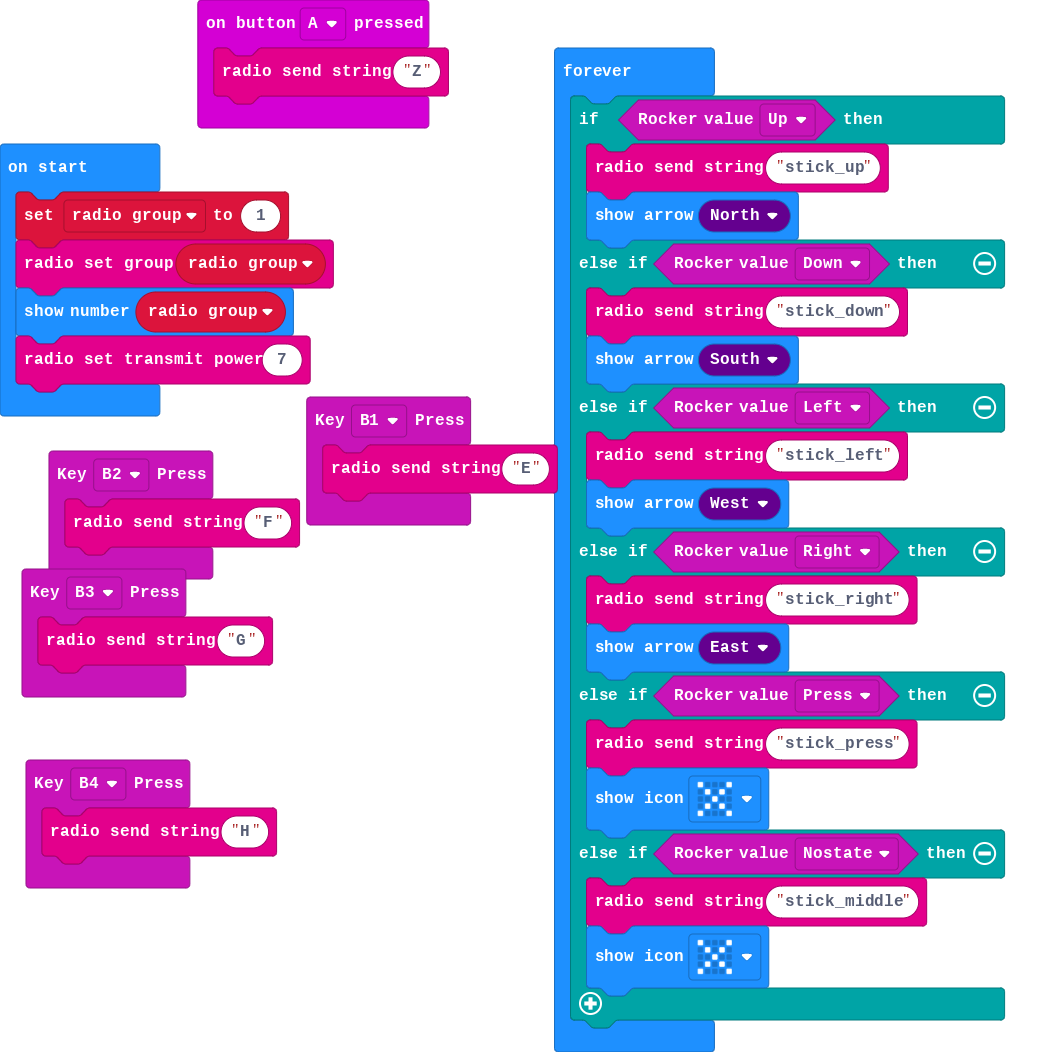
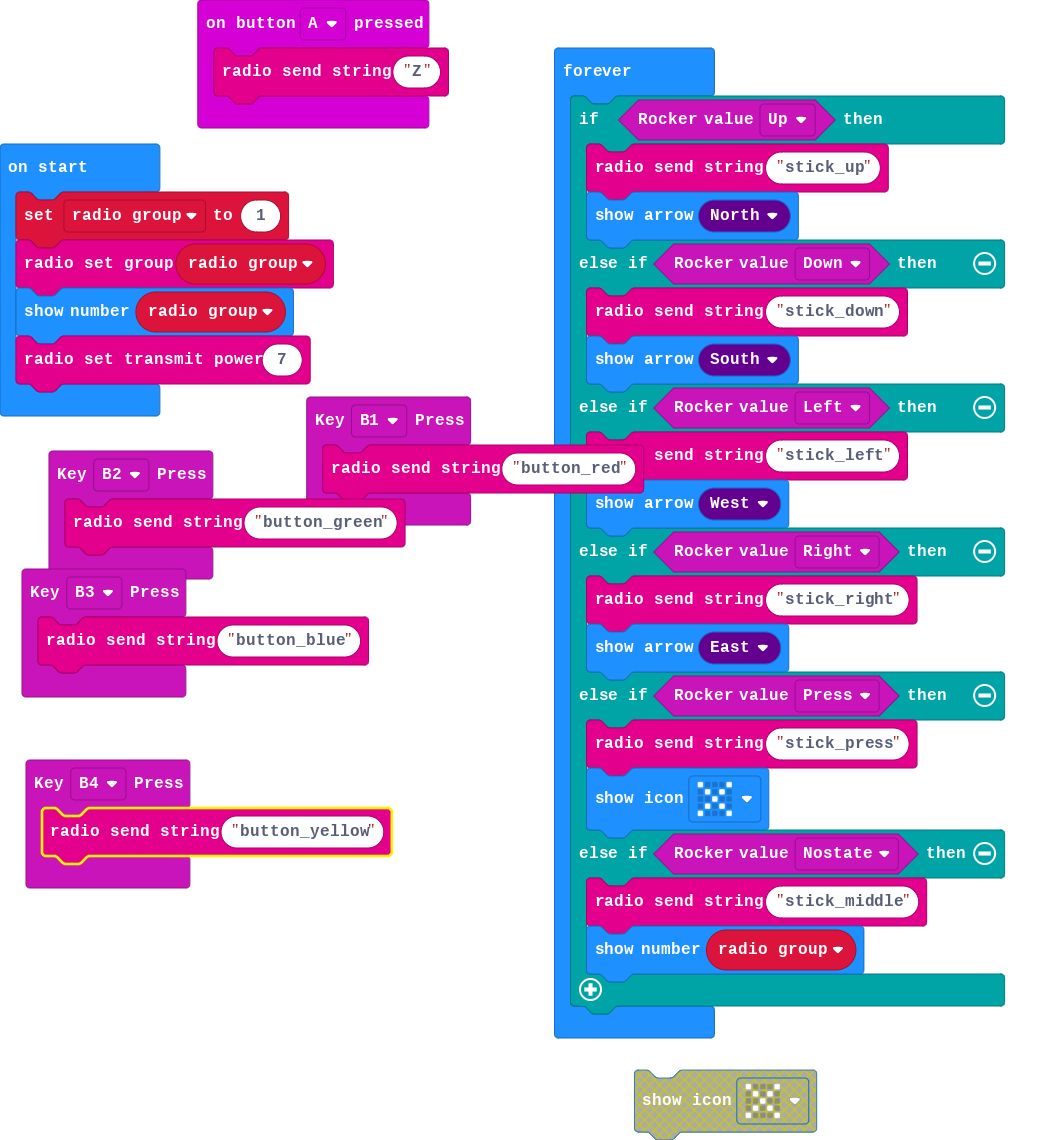
Update main.blocks, main.ts

diff --git a/main.ts b/main.ts
@@ -2,16 +2,16 @@ input.onButtonPressed(Button.A, function () {
     radio.sendString("Z")
 })
 GHBit.onKey(GHBit.enButton.B3, function () {
-    radio.sendString("G")
+    radio.sendString("button_blue")
 })
 GHBit.onKey(GHBit.enButton.B1, function () {
-    radio.sendString("E")
+    radio.sendString("button_red")
 })
 GHBit.onKey(GHBit.enButton.B4, function () {
-    radio.sendString("H")
+    radio.sendString("button_yellow")
 })
 GHBit.onKey(GHBit.enButton.B2, function () {
-    radio.sendString("F")
+    radio.sendString("button_green")
 })
 let radio_group = 1
 radio.setGroup(radio_group)
@@ -35,6 +35,6 @@ basic.forever(function () {
         basic.showIcon(IconNames.No)
     } else if (GHBit.Rocker(GHBit.enRocker.Nostate)) {
         radio.sendString("stick_middle")
-        basic.showIcon(IconNames.No)
+        basic.showNumber(radio_group)
     }
 })
